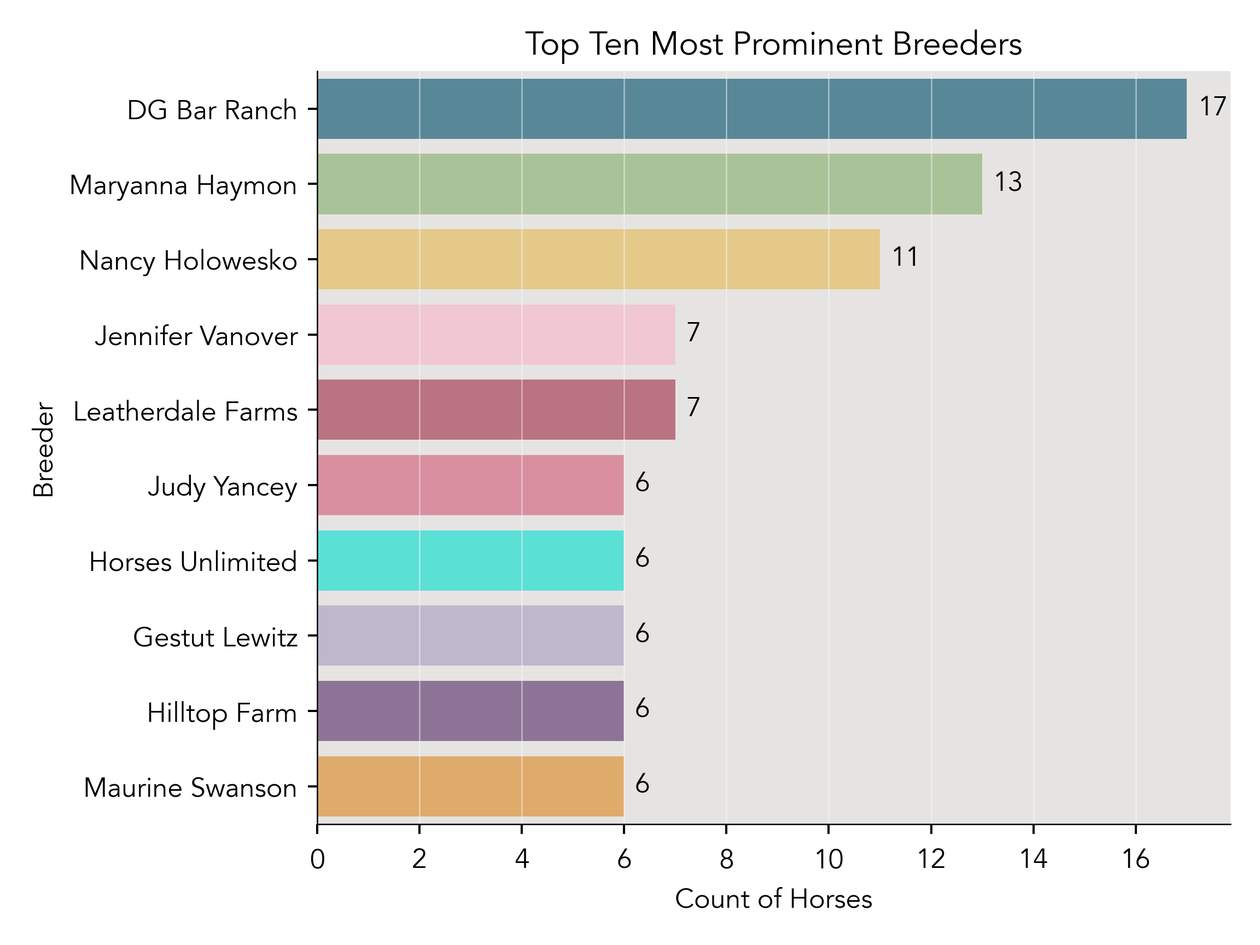
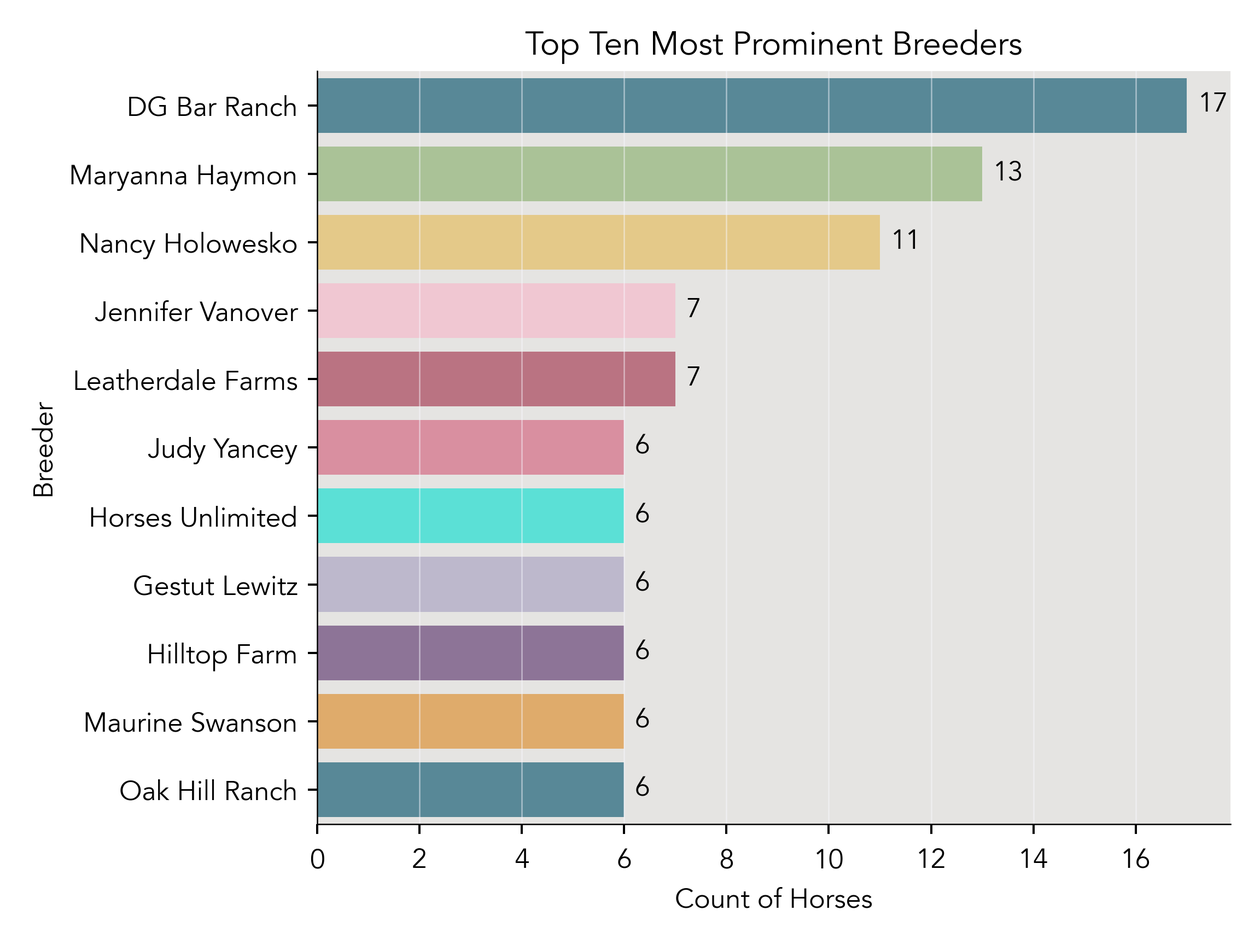
Edit README.md

diff --git a/README.md b/README.md
@@ -12,23 +12,23 @@ The current format of the competition for all divisions (4/5/6/7 Year Old, Devel
 
 To complicate matters, early years of this program invited more horses to participate, and held both Final and Consolation Final rounds. To simplify this analysis, I did not include any Consolation Final results. 
 
-For more recent years of the competition (2021-2023), the competition software system [Equestrian Hub](www.equestrian-hub.com) has automatically calculated these placings, which made it easy to obtain the data. For prior years, varying levels of detective work were required. I was able to find official overall placing records for some years on the United States Equestrian Federation (USEF) [website](www.usef.org/), but not all were available. For the years that had only the scores from each class available, I wrote a small program in Python to take each individual round of scores, and calculate the overall score using the 40/60 formula (available in the 'resources' folder for this project). While I have endeavored to do this without error, the lack of official overall rankings to compare to means that there may be errors involved as to exact overall placings of some horses. If you come across an error, [please contact me](byrne.sio@gmail.com) and I will make the correction.
+For more recent years of the competition (2021-2024), the competition software system [Equestrian Hub](www.equestrian-hub.com) has automatically calculated these placings, which made it easy to obtain the data. For prior years, varying levels of detective work were required. I was able to find official overall placing records for some years on the United States Equestrian Federation (USEF) [website](www.usef.org/), but not all were available. For the years that had only the scores from each class available, I wrote a small program in Python to take each individual round of scores, and calculate the overall score using the 40/60 formula (available in the 'resources' folder for this project). While I have endeavored to do this without error, the lack of official overall rankings to compare to means that there may be errors involved as to exact overall placings of some horses. If you come across an error, [please contact me](byrne.sio@gmail.com) and I will make the correction.
 
-Next, I looked up each horse in the United States Dressage Federation (USDF) [database](www.usdf.org/usdfscores), to determine a) what is the highest level to which this horse competed?,  and b) did this horse ever compete at the CDI (international) level? For a), I did not consider scores received—I was only concerned if that horse had a test on its record at that level. Therefore, this analysis does not differentiate between high and low scoring horses at any level. For b), I only considered horses to be CDI competitors if they had competed at a CDI at a level OTHER THAN the FEI Young Horse tests for 5, 6, and 7 Year Olds. 
+Next, I looked up each horse in the United States Dressage Federation (USDF) [database](www.usdf.org/usdfscores), to determine a) what is the highest level to which this horse competed?,  and b) did this horse ever compete at the CDI (international) level? For a), I did not consider scores received—I was only concerned if that horse had a test on its record at that level. Therefore, this analysis does not differentiate between high and low scoring horses at any level. For b), I only considered horses to be CDI competitors if they had competed at a CDI at a level OTHER THAN the FEI Young Horse tests for 5, 6, and 7 Year Olds, or the FEI divisions that are limited to youth competitors (Pony/Children/Junior/Young Rider/U-25). 
 
 I had the most difficulty acquiring the data on bloodlines and breeders, ironically. Because so many people fail to include this information on entry forms, lots of the data was incomplete. USEF does have a horse search function on their website, but they only list sire and dam (no damsire), and frequently the breeder and country of birth are left out. The USDF database also has frequently incomplete pedigree and breeder data. Finding this information required a lot of detective work in some cases, frequently utilizing [Horse Telex](www.horsetelex.com), a pedigree database. I also utilized old [Eurodressage](www.eurodressage.com) and [DressageDaily](www.dressagedaily.com) articles about various years of the championships. 
 
 ## Analysis Overview
-I collected data on competitors from all years the championships have been held, 2002-2023, and all divisions (*N*=841). 
+I collected data on competitors from all years the championships have been held, 2002-2024, and all divisions (*N*=888). 
 
-For the analysis of competitve careers of participants, I narrowed my focus to horses that competed in the USEF 4 Year Old, FEI 5 Year Old, and FEI 6 Year Old dvisions from 2002-2019 (*n*=520). Horses that competed in the USEF 4 Year Old division in 2019 would be 8 in 2023, and 8 is the youngest age a horse is allowed to compete at the highest of the FEI levels, Grand Prix. While it is rare to see a horse competing at that level at that age, it is legal, so I went with the lowest legal age to compete at Grand Prix versus the more common lowest age (9-10 years old). 
+For the analysis of competitve careers of participants, I narrowed my focus to horses that competed in the USEF 4 Year Old, FEI 5 Year Old, and FEI 6 Year Old dvisions from 2002-2019 (*n*=555). Horses that competed in the USEF 4 Year Old division in 2020 would be 8 in 2024, and 8 is the youngest age a horse is allowed to compete at the highest of the FEI levels, Grand Prix. While it is rare to see a horse competing at that level at that age, it is legal, so I went with the lowest legal age to compete at Grand Prix versus the more common lowest age (9-10 years old). 
 
-The analysis of bloodlines and other breeding data will look at all years of the program, 2002-2023, and all Young and Developing Horse divisons (*N*=841). 
+The analysis of bloodlines and other breeding data will look at all years of the program, 2002-2024, and all Young and Developing Horse divisons (*N*=888). 
 
-### 2002 - 2019, 4/5/6 Year Old Division Competitive Outcomes
+### 2002 - 2020, 4/5/6 Year Old Division Competitive Outcomes
 
 #### Highest Level of Competition Achieved
-Figure 1 below shows the breakdown of the highest level achieved in competition by the horses that competed in the USEF Four Year Old, FEI 5 Year Old, and FEI 6 Year Old divisions from 2002-2019 (*n*=520). 26.4% (137/520) competed to Grand Prix, 17.9% (93/520) Prix St. Georges, 16.2% (84/520) Intermediate-1, 8.5% (44/520) Intermediate-2, 8.3% (43/520) Fourth Level, 7.5% (39/520) Third Level, 4% (21/520) FEI 5 Year Old, 3.7% (19/520) Second Level, 3.1% (16/520) USEF 4 Year Old, 2.1% (11/520) First Level, 1.2% (6/520) FEI 6 Year Old, 0.4% (2/520) FEI Junior, 0.4% (2/520) Intermediate-A, 0.4% (2/520) FEI 7 Year Old, 0.2% (1/520) Intermediate-B.  
+Figure 1 below shows the breakdown of the highest level achieved in competition by the horses that competed in the USEF Four Year Old, FEI 5 Year Old, and FEI 6 Year Old divisions from 2002-2020 (*n*=555). 24.9% (138/555) competed to Grand Prix, 17.8% (99/555) Prix St. Georges, 16.4% (91/555) Intermediate-1, 8.3% (46/555) Fourth Level, 8.1% (45/555) Intermediate-2, 7.9% (44/555) Third Level, 4.5% (25/555) FEI 5 Year Old, 3.6% (20/555) Second Level, 3.4% (19/555) USEF 4 Year Old, 2.3% (13/555) First Level, 1.4% (8/555) FEI 6 Year Old, 0.4% (2/520) FEI Junior, 0.4% (2/555) Intermediate-A, 0.4% (2/555) FEI 7 Year Old, 0.2% (1/555) Intermediate-B.  
 
 ![Highest Level Competed Breakdown](images/highest-level-breakdown.png)
 
@@ -37,38 +37,36 @@ Figure 1 below shows the breakdown of the highest level achieved in competition 
 #### FEI Level Competitive Outcomes
 Do horses that compete in the 4, 5, and 6 Year Old divisions make it to the FEI (Fédération Equestre Internationale) levels? 
 
-To answer this question, I looked at the  competitive record of each of the 520 horses and considered them to have competed at FEI if they competed at any FEI level other than the FEI Young Horse divisions, at either a national show or a CDI (international competition). Those levels are comprised of Junior, Young Rider, Prix St. Georges, Intermediate-1 (I-1), Intermediate-A (I-A), Intermediate-B (I-B), Intermediate-2 (I-2), and Grand Prix. 
+To answer this question, I looked at the  competitive record of each of the 555 horses and considered them to have competed at FEI if they competed at any FEI level other than the FEI Young Horse or the Pony/Children/Junior/Young Rider (eligibility limited by rider's age) divisions, at either a national show or a CDI (international competition). Those levels are comprised of Prix St. Georges, Intermediate-1 (I-1), Intermediate-A (I-A), Intermediate-B (I-B), Intermediate-2 (I-2), and Grand Prix. 
 
-The overwhelming majority, 69.8% (363/520), made it to FEI. 21.5% (112/520) competed at the USEF levels (Training, First, Second, Third, Fourth). Only 8.7% (45/520) never competed at any level other than a Young Horse division (Figure 2). 
+The overwhelming majority, 67.7% (376/555), made it to FEI. 22.5% (125/555) competed at the USEF levels (Training, First, Second, Third, Fourth). Only 9.7% (54/555) never competed at any level other than a Young Horse division (Figure 2). 
 
 ![FEI vs Non-FEI Horses](images/fei-vs-non-fei.png)
 
 *Figure 2: FEI vs Non-FEI Horses*
 
-
-Figure 3 below shows the level breakdown of horses that made it to FEI (*n*=363). 37.7% (137/363) of them competed to Grand Prix. 25.6% (93/363) competed to Prix St. Georges, 23.1% (84/363) I-1, 12.1% (44/363) I-2, 0.6% (2/363) FEI Junior, 0.6% (2/363) I-A, 0.3% (1/363) I-B. 
+Figure 3 below shows the level breakdown of horses that made it to FEI (*n*=376). 36.7% (138/376) of them competed to Grand Prix. 26.3% (99/376) competed to Prix St. Georges, 24.2% (91/376) I-1, 12% (45/376) I-2, 0.5% (2/376) I-A, 0.3% (1/376) I-B. 
 
 ![FEI Level Breakdown](images/fei-level-breakdown.png)
 
 *Figure 3: Breakdown by level of horses that competed at FEI*
 
 
-
 #### CDI Level Competitive Outcomes
-Of the horses that made it to FEI (*n*=363), how many competed at the CDI (Concours de Dressage International) level? A CDI is an international competition sanctioned by the governing body for equestrian sports, the FEI (Fédération Equestre Internationale).  
+Of the horses that made it to FEI (*n*=376), how many competed at the CDI (Concours de Dressage International)? A CDI is an international competition sanctioned by the governing body for equestrian sports, the FEI (Fédération Equestre Internationale). I only considered competing at a CDI in the senior divisions (Prix St. Georges, I-1, I-2, Grand Prix) to count as competing at the CDI level. 
 
-The majority of horses, 53.4% (194/363), never competed in a CDI. Most horses, even if they make it to FEI, would not necessarily be competitive on the CDI level. CDI competitions are also much more expensive and complicated to enter and compete in (higher entry fees, horses must have an FEI passport). Finally, there are simply not that many CDI competitions in the USA, and the ones there are tend to be concentrated in certain areas, requiring long travel times for people in many parts of the country. 
+The majority of horses, 53.7% (202/376), never competed in a CDI. Most horses, even if they make it to FEI, would not necessarily be competitive on the CDI level. CDI competitions are also much more expensive and complicated to enter and compete in (higher entry fees, horses must have an FEI passport). Finally, there are simply not that many CDI competitions in the USA, and the ones there are tend to be concentrated in certain areas, requiring long travel times for people in many parts of the country. 
 
-46.6% (169/363) participated in at least one CDI at any level other than a Young Horse division (Figure 4).
+46.3% (174/367) participated in at least one CDI at any senior level other than a Young Horse division (Figure 4).
 
 ![CDI vs Non-CDI Horses](images/cdi-competitors.png)
 
 *Figure 4: CDI vs Non-CDI Competitors*
 
 #### Top Ten vs Lower Placing Horses
-Are horses placing in the top ten versus lower placing horses (11 and under) more likely to make it to FEI? To answer this question, I looked at the overall placings and highest level competed of the horses that made it to the FEI levels (*n*=363). Because some horses competed at the championships multiple years and placed in the top ten one year but not another, I considered a horse to be in the top ten group if it made top ten at least once. 
+Are horses placing in the top ten versus lower placing horses (11 and under) more likely to make it to FEI? To answer this question, I looked at the overall placings and highest level competed of the horses that made it to the FEI levels (*n*=376). Because some horses competed at the championships multiple years and placed in the top ten one year but not another, I considered a horse to be in the top ten group if it made top ten at least once. 
 
-The data shows a strong correlation between placing and FEI achievement: 77.1% (280/383) of horses that made it to the FEI levels placed in the top ten of their division at the championships, versus 22.9% (83/363) in the 11 and under placing group (Figure 5).
+The data shows a strong correlation between placing and FEI achievement: 76.9% (289/376) of horses that made it to the FEI levels placed in the top ten of their division at the championships, versus 23.1% (87/376) in the 11 and under placing group (Figure 5).
 
 ![Percentage of FEI Horses in Top Ten vs 11 and Under](images/top-ten-vs-bottom-ten.png)
 
@@ -80,7 +78,7 @@ The data shows a strong correlation between placing and FEI achievement: 77.1% (
 *Figure 6: Percentage of FEI Horses in Top Ten by Level*
 
 
-When we look at horses that competed to Grand Prix (*n*=137), the correlation between a top ten placing and level achievment is even more impressive: 90.5% (124/137) of the horses that made it to Grand Prix placed in the top ten of their division, versus a mere 9.5% (13/137) in the 11 and under placing group (Figure 7). 
+When we look at horses that competed to Grand Prix (*n*=138), the correlation between a top ten placing and level achievment is even more impressive: 90.6% (125/138) of the horses that made it to Grand Prix placed in the top ten of their division, versus a mere 9.4% (13/138) in the 11 and under placing group (Figure 7). 
 
 ![Grand Prix Horses by Placing](images/gp-top-ten-placing.png)
 
@@ -88,10 +86,13 @@ When we look at horses that competed to Grand Prix (*n*=137), the correlation be
 
 This finding may be influenced by the years this project is analyzing. In the early years of this program, there were frequently 10 or fewer horses in some divisions. It is also possible that the quality of horse that places in the top ten is more likely to be ridden and trained by more experienced individuals, which may up their odds of making it to the higher levels. It will be interesting to see how/if this number changes, as more years of data are added to this analysis.
 
-#### Overall Score and FEI Achievement
-Does a higher overall score make it more likely that a horse makes it to FEI? To answer this question, I separated FEI horses (*n*=363) into two categories, those that had an overall score of 7.5 or above, and those that scored below that threshold. As with the analysis on placings, if a horse competed at the championships more than once, I considered them to be in the 7.5 and above group as long as one of their scores met that criteria. 
+#### Top Three Placing Competitive Outcomes
+Do horses that place in the top three go on to competitive success? A common argument of people against the young horse development track is that horses successful in these divisions never make it to FEI, or that they "disappear and are never seen again". Of the horses that placed in the top three (*n*=128), 32.8% (42/128) made it to Grand Prix, 18% (23/128) Prix St. Georges, 14.8% (19/128) I-2, 14.8% (19/128) I-1, 5.5% (7/128) Fourth Level, 3.1% (4/128) FEI 5 Year Old, 2.3% (3/128) Third Level, 2.3% (3/128) FEI 6 Year Old, 2.3% (3/128) USEF 4 Year Old, 1.6% (2/128) First Level, 0.8% (1/128) I-B, 0.8% (1/128) FEI 7 Year Old, 0.8% (1/128) Second Level. These numbers add up to 81.2% (104/128) of top three competitors making it to the FEI levels. 
 
-The data did show a correlation between overall score and a horse making it to the FEI levels. 56.2% of horses (204/363) that made it to FEI achieved an overall score of 7.5 or above, compared to 43.8% (159/363) that scored below 7.5 (Figure 8). 
+#### Overall Score and FEI Achievement
+Does a higher overall score make it more likely that a horse makes it to FEI? To answer this question, I separated FEI horses (*n*=376) into two categories, those that had an overall score of 7.5 or above, and those that scored below that threshold. As with the analysis on placings, if a horse competed at the championships more than once, I considered them to be in the 7.5 and above group as long as one of their scores met that criteria. 
+
+The data did show a correlation between overall score and a horse making it to the FEI levels. 55.3% of horses (208/376) that made it to FEI achieved an overall score of 7.5 or above, compared to 44.7% (168/376) that scored below 7.5 (Figure 8). 
 
 ![FEI Achievement by Overall Score](images/fei-by-overall-score.png)
 
@@ -104,7 +105,7 @@ When we look at this by level, interestingly, the numbers are fairly close for m
 *Figure 9: FEI Horses Scoring 7.5 or Above vs Below 7.5 by Level*
 
 #### International Team Horses
-As one aim of these championships is to help identify horses that may be potential international team horses, I wanted to see how many horses from this time period (*N*=520)went on to represent the USA (or any other country) on a team in a major championship. I defined this as being named a member of a Pan American Games, World Equestrian Games, or Olympic Games team. 
+As one aim of these championships is to help identify horses that may be potential international team horses, I wanted to see how many horses from this time period (*N*=555)went on to represent the USA (or any other country) on a team in a major championship. I defined this as being named a member of a Pan American Games, World Equestrian Games, or Olympic Games team. 
 
 Four horses from this time period, 0.8% (4/520) of the sample, went on to make international teams. These horses were Grandioso (Pan American Games, for the United States), Lucky Strike (named to Pan American Games team for the United States, but did not compete due to injury during transport), Selten HW (Olympic Games, for Denmark), and Sanceo (Pan American and Olympic Games, for the United States).
 
@@ -117,17 +118,17 @@ While this is clearly a very small number, I would argue that it is still impres
 | Sanceo       | San Remo    | Ramiro's Son II | Germany        | Gerhard Dustmann          | Hanoverian | Olympic Games and Pan American Games |
 | Lucky Strike | Lord Laurie | His Highness    | Germany        | Monika Hartwitch          | Hanoverian | Pan American Games                   |
 
-### 2002 - 2023, Overall Scores Analysis
+### 2002 - 2024, Overall Scores Analysis
 I wanted to look at overall scores over the years, to see if there was a relationship between year and overall score. My hypothesis was that scores would have a positive trend over time, as both breeding and training of horses has improved over the years. I did not include the FEI 7 Year Old division in this analysis, as this division has only been offered since 2022, and therefore does not have many data points, as seen in the summary table below.
 
 | Division   |   Number of Scores |   Mean Score |   Median Score |   Standard Deviation |   Variance |
 |:-----------|-------------------:|-------------:|---------------:|---------------------:|-----------:|
-| DHGP       |                121 |     64.1928  |        64.888  |             6.62417  |  43.8796   |
-| DHPSG      |                241 |     66.4908  |        67.339  |             5.70654  |  32.5646   |
-| FEI5       |                291 |      7.53029 |         7.584  |             0.8725   |   0.761256 |
-| FEI6       |                276 |      7.37784 |         7.504  |             1.012    |   1.02415  |
-| FEI7       |                 28 |     70.6219  |        71.3295 |             8.93975  |  79.9191   |
-| USEF4      |                267 |      7.59232 |         7.62   |             0.801735 |   0.642779 |
+| DHGP       |                131 |     64.2769  |        65      |             6.42082  |  41.2269   |
+| DHPSG      |                255 |     66.5084  |        67.306  |             5.56945  |  31.0188   |
+| FEI5       |                305 |      7.53145 |         7.58   |             0.855057 |   0.731123 |
+| FEI6       |                291 |      7.39842 |         7.516  |             0.992308 |   0.984675 |
+| FEI7       |                 40 |     70.175   |        70.7785 |             7.70386  |  59.3495   |
+| USEF4      |                281 |      7.60641 |         7.62   |             0.791772 |   0.626902 |
 
 The standard deviation for each the Young Horse divisions (4/5/6 Year Olds) is much smaller than that of the Developing Horse divisions, which makes sense given the way the scoring for these tests differs from regular dressage tests. Young Horse tests are scored by giving a numerical score from 1-10 (the score can utilize decimals, e.g. 7.5, 8.2) for the walk, trot, canter, submission, and perspective. The marks are added and then multiplied by 2. The final score is expressed as a number, not a percentage, so the decimal point is moved to the left by one place. [See the FEI 5 Year Old Final test for an example](https://inside.fei.org/system/files/Young%20Horses%205%20YO%20Final%202022.pdf). For instance, a horse given a 8.1 on the walk, 7.5 on the trot, 7.9 on the canter, 7.3 on submission and 7.7 on perspective would receive an overall score of 77, which would be reported as a score of 7.7. Other than the occasional lower score on submission, it is rare for individual scores to be below 6 at the championships. In order to compete at championships, there is a minimum qualifying score (for the 2024 championships, horses must have an overall average of 7.5). So the overall quality of horse, combined with the scoring method, results in very small numbers for both standard deviation and variance. 
 
@@ -272,13 +273,13 @@ Three of the seven outliers (all scores below 54%) were due to the horse complet
 
 *Figure 19: Scatterplot and linear regression for the Developing Grand Prix Division Scores*
 
-### 2002 - 2023, All Divisions (4/5/6 Year Old, Developing Prix St. Georges, Developing Grand Prix) Breeding and Bloodlines Analysis
+### 2002 - 2024, All Divisions (4/5/6 Year Old, Developing Prix St. Georges, Developing Grand Prix) Breeding and Bloodlines Analysis
 
 ### Analysis of Scores by Sire 
-Because the scoring format for the 4/5/6 Year Old divisions is different than the scoring format for the Developing Horse divisions, I broke out the analysis of scores by sire out into two different groups. I included only stallions with 8 or more offspring, in order to have a better sample size (although clearly, the sample sizes are not that large regardless). 
+Because the scoring format for the 4/5/6 Year Old divisions is different than the scoring format for the Developing Horse divisions, I broke out the analysis of scores by sire out into two different groups. I included only stallions with 8 or more offspring, in order to have a better sample size.
 
 #### Summary Statistics for Scores by Sire, Young Horse Divisions 
-The sire with the highest median score in the Young Horse divisions is Belissimo M (8.208). Close behind is Grand Galaxy Win, with a median score of 8.154. 
+The sire with the highest median score in the Young Horse divisions is Belissimo (8.208). Close behind is Grand Galaxy Win (8.119). In third place is Vitalis (7.992).
 
 
 | Sire             |   Number of Scores |   Mean Score |   Median Score |   Standard Deviation |   Variance |
@@ -288,29 +289,32 @@ The sire with the highest median score in the Young Horse divisions is Belissimo
 | Contucci         |                 10 |      7.628   |          7.452 |             0.81952  |   0.671612 |
 | Florencio I      |                  8 |      7.50625 |          7.536 |             0.609313 |   0.371262 |
 | Florestan I      |                 11 |      7.369   |          7.4   |             0.385015 |   0.148237 |
-| Furstenball      |                 21 |      7.8301  |          7.72  |             0.56074  |   0.31443  |
-| Grand Galaxy Win |                 11 |      8.27773 |          8.154 |             0.569092 |   0.323866 |
+| Furstenball      |                 22 |      7.79964 |          7.67  |             0.565568 |   0.319867 |
+| Grand Galaxy Win |                 12 |      8.21858 |          8.119 |             0.579999 |   0.336399 |
 | Hotline          |                 13 |      7.62323 |          7.58  |             0.502625 |   0.252632 |
 | Idocus           |                  8 |      7.702   |          7.56  |             0.831318 |   0.69109  |
 | Jazz             |                 14 |      7.764   |          7.758 |             0.722566 |   0.522102 |
 | Quaterback       |                  8 |      7.6075  |          7.616 |             0.631752 |   0.399111 |
 | Rotspon          |                 10 |      7.5211  |          7.486 |             0.708312 |   0.501706 |
-| San Amour        |                  9 |      7.63511 |          7.552 |             0.48282  |   0.233115 |
+| San Amour        |                 10 |      7.7072  |          7.61  |             0.509099 |   0.259182 |
 | Sandro Hit       |                 31 |      7.68797 |          7.636 |             0.525052 |   0.27568  |
+| Secret           |                 10 |      7.758   |          7.608 |             0.319512 |   0.102088 |
 | Sir Donnerhall I |                 24 |      7.80379 |          7.718 |             0.382872 |   0.146591 |
 | Sir Sinclair     |                  9 |      7.66511 |          7.68  |             0.423529 |   0.179377 |
+| Vitalis          |                  9 |      8.13333 |          7.992 |             0.603659 |   0.364404 |
 
 ![Young Horse Scores by Sire Boxplot](images/yh-score-by-sire-boxplot.png)
 *Figure 20: Boxplot of Young Horse Divisions Scores by Sire*
 
 #### Summary Statistics for Scores by Sire, Developing Horse Divisions
-The sire with the highest median score in the Developing Horse divisions is Wagnis (69.919%). Runner up is Charmeur (69.152%). 
+The sire with the highest median score in the Developing Horse divisions is Wagnis (69.919%). Runner up is Charmeur (69.152%). In third place is Sir Donnerhall I (68.73%). 
 
 
 | Sire             |   Number of Scores |   Mean Score |   Median Score |   Standard Deviation |   Variance |
 |:-----------------|-------------------:|-------------:|---------------:|---------------------:|-----------:|
 | Ampere           |                  4 |      68.3042 |        68.3415 |              2.25245 |    5.07352 |
-| Belissimo M      |                  4 |      65.0897 |        65.386  |              4.22503 |   17.8509  |
+| Belissimo M      |                  5 |      65.4404 |        66.843  |              3.74205 |   14.003   |
+| Bretton Woods    |                  4 |      67.414  |        67.3065 |              1.06965 |    1.14414 |
 | Charmeur         |                  5 |      68.5348 |        69.152  |              2.66971 |    7.12733 |
 | Contucci         |                  4 |      64.845  |        63.0985 |              6.00224 |   36.0269  |
 | Diamond Hit      |                  7 |      67.4623 |        67.774  |              1.72814 |    2.98647 |
@@ -328,8 +332,9 @@ The sire with the highest median score in the Developing Horse divisions is Wagn
 | Sandro Hit       |                  9 |      64.6292 |        64.273  |              2.26267 |    5.11968 |
 | Sir Donnerhall I |                 10 |      67.8955 |        68.7305 |              3.90009 |   15.2107  |
 | UB 40            |                  4 |      66.8538 |        66.955  |              1.20529 |    1.45272 |
-| Vivaldi          |                  4 |      69.191  |        68.997  |              2.28054 |    5.20086 |
+| Vivaldi          |                  5 |      68.7544 |        68.052  |              2.20312 |    4.85374 |
 | Wagnis           |                  4 |      71.1148 |        69.919  |              2.80298 |    7.85668 |
+
 
 ![Developing Horse Scores by Sire Boxplot](images/dh-score-by-sire-boxplot.png)
 *Figure 21: Boxplot of Developing Horse Divisions Scores by Sire*
@@ -371,7 +376,7 @@ Figure 25 below shows the top ten sires of championship competitors by number of
 *Figure 25: Top Ten Sires by Number of Offspring*
 
 #### Top Ten Damsires Represented by Offspring Count
-Figure 26 below shows the top ten damsires of championship competitors by number of offspring. The damsire with the most offspring competing was Rubinstein (25). The rest of the top ten were De Niro (18), Sandro Hit (17), Jazz (16), Rotspon (16), Weltmeyer (14), Ferro (13), Krack C (11), Sir Donnerhall I (11), and Rohdiamant (11). 
+Figure 26 below shows the top ten damsires of championship competitors by number of offspring. The damsire with the most offspring competing was Rubinstein (25). The rest of the top ten were De Niro (20), Sandro Hit (20), Jazz (16), Rotspon (16), Weltmeyer (14), Ferro (14), Sir Donnerhall I (13), Krack C (11), and Rohdiamant (11). 
 
 This column had the second most null values of all the columns (18 missing values / 3.5% of the total)—I hope to resolve this in future iterations of this project.
 
@@ -381,7 +386,7 @@ This column had the second most null values of all the columns (18 missing value
 *Figure 26: Top Ten Damsires by Number of Offspring*
 
 #### Top Ten Sires of Grand Prix Horses by Offspring Count
-The top sire of Grand Prix horses was also Sandro Hit (12). The rest of the top ten were Jazz (8), Sir Donnerhall I (7), Florestan I (5), Florencio I (5), Rotspon (4), Fidertanz (4), and 3 each for Furstenball, Sir Sinclair, San Amour, Hotline, Gribaldi, and Contango. 
+The top sire of Grand Prix horses was also Sandro Hit (11). The rest of the top ten were Sir Donnerhall I (9), Jazz (8), Fidertanz (6), Belissimo M (5), Florestan I (5), Florencio I (5), Rotspon (4), Hotline (4), and Quaterback (4). 
 
 
 ![Top Ten Grand Prix Sires](images/top-gp-sires.png)
@@ -417,7 +422,7 @@ There was a similar shakeup when I looked at the percentage of Grand Prix offspr
 *Figure 30: Percentage of Grand Prix Offspring by Damsire*
 
 #### Top Ten Most Prominent Breeders by Horse Count
-The most prominent breeder over all years and divions is DG Bar Ranch (USA), with 16 horses. The rest of the top ten were Maryanna Haymon (USA, 12 horses), Nancy Holowesko (USA, 9 horses), Leatherdale Farms (USA, 7 horses), Oak Hill Ranch (USA, 6 horses), Judy Yancey (USA, 6 horses), Horses Unlimited (USA, 6 horses), Gestut Lewitz (Germany, 6 horses), Maurine Swanson (USA, 5 horses), and Jackie Ahl-Eckhaus (USA, 5 horses). 
+The most prominent breeder over all years and divions is DG Bar Ranch (USA), with 17 horses. The rest of the top ten were Maryanna Haymon (USA, 13 horses), Nancy Holowesko (USA, 11 horses), Leatherdale Farms (USA, 7 horses), Jennifer Vanover (USA, 7 horses), Oak Hill Ranch (USA, 6 horses), Judy Yancey (USA, 6 horses), Horses Unlimited (USA, 6 horses), Gestut Lewitz (Germany, 6 horses), Maurine Swanson (USA, 6 horses), and Hilltop Farm (USA, 6 horses). 
 
 This column had the most null values overall—47 missing values, which equates to 9% of the total. This data was also frequently extremely difficult to track down. While making submission of registration papers a condition for a USEF/USDF number may not be practical for a variety of reasons, it would help American sporthorse breeding to make this data easily available. Breeders also clearly deserve recognition for the essential role they play in the development of the modern sporthorse. 
 
@@ -426,11 +431,11 @@ This column had the most null values overall—47 missing values, which equates 
 *Figure 31: Top Ten Most Prominent Breeders by Number of Horses*
 
 #### Top Ten Studbooks by Horse Count
-In order to compete at these championships, all horses must be registered with a studbook recognized by the World Breeding Federation for Sport Horses (WBFSH), or a national breed registry such as Jockey Club (the national registry for Thoroughbreds). Warmbloods are not really a breed (the Trakhener being an exception), they are a type. While there is definitly a lot of crossover in bloodlines through all the warmblood studbooks, each has their own directives and requirements for approval of mares and stallions, and the registration of offspring. I was curious to see what the most represented studbooks were, so I calculated the number of horses attributed to each (Figure 32) from the database of championship competitors over all years of the program (*N*=841). The studbook with the most horses competing over all years was KWPN (Koninklijk Warmbloed Paardenstamboek Nederland, also known as Dutch Warmblood), with 29% (244/841). The Hanoverian studbook was a close second, with 28.7% (241/841). 
+In order to compete at these championships, all horses must be registered with a studbook recognized by the World Breeding Federation for Sport Horses (WBFSH), or a national breed registry such as Jockey Club (the national registry for Thoroughbreds). Warmbloods are not really a breed (the Trakhener being an exception), they are a type. While there is definitly a lot of crossover in bloodlines through all the warmblood studbooks, each has their own directives and requirements for approval of mares and stallions, and the registration of offspring. I was curious to see what the most represented studbooks were, so I calculated the number of horses attributed to each (Figure 32) from the database of championship competitors over all years of the program (*N*=888). The studbook with the most horses competing over all years was KWPN (Koninklijk Warmbloed Paardenstamboek Nederland, also known as Dutch Warmblood), with 29.1% (258/888). The Hanoverian studbook was a close second, with 28.2% (250/888). 
 
-Oldenburg was third, with 21.9% (184/841). There was sometimes considerable difficulty in differentiating horses that were truly in the official German Oldenburg studbook (Oldenburg Horse Breeders Society/GOV, which is also just referred to as Oldenburg by some), and horses registered with Oldenburg NA (an American studbook no longer affiliated with the German studbook but was at one point the official American branch, also often just referred to as Oldenburg). Because of this, all horses that were listed as bring registered Oldenburg are combined. 
+Oldenburg was third, with 22.4% (199/888). There was sometimes considerable difficulty in differentiating horses that were truly in the official German Oldenburg studbook (Oldenburg Horse Breeders Society/GOV, which is also just referred to as Oldenburg by some), and horses registered with Oldenburg NA (an American studbook no longer affiliated with the German studbook but was at one point the official American branch, also often just referred to as Oldenburg). Because of this, all horses that were listed as bring registered Oldenburg are combined. 
 
-The rest of the top ten were Westfalen 5.7% (48/841), Danish Warmblood 4% (34/841) , Rhinelander 2.1% (18/841), American Warmblood 1.2% (10/841), Pura Raza Espanola (PRE) 0.8% (7/841), Holsteiner 0.8% (7/841), and Swedish Warmblood 0.7% (6/841). 
+The rest of the top ten were Westfalen 5.6% (50/888), Danish Warmblood 4.3% (38/888) , Rhinelander 2% (18/888), American Warmblood 1.1% (10/888), Pura Raza Espanola (PRE) 0.9% (8/888), Holsteiner 0.8% (7/888), and Swedish Warmblood 0.7% (6/888). 
 
 It makes sense that KWPN, Hanoverian, and Oldenburg are the most dominant studbooks, as they have by far the biggest presence in the United States. The American branch of the KWPN, KWPN-NA, [states on their website](https://kwpn-na.org/the-kwpn-na/about/about-kwpn-na/) they have registered an average of more than 550 foals a year over the last decade. 
 
